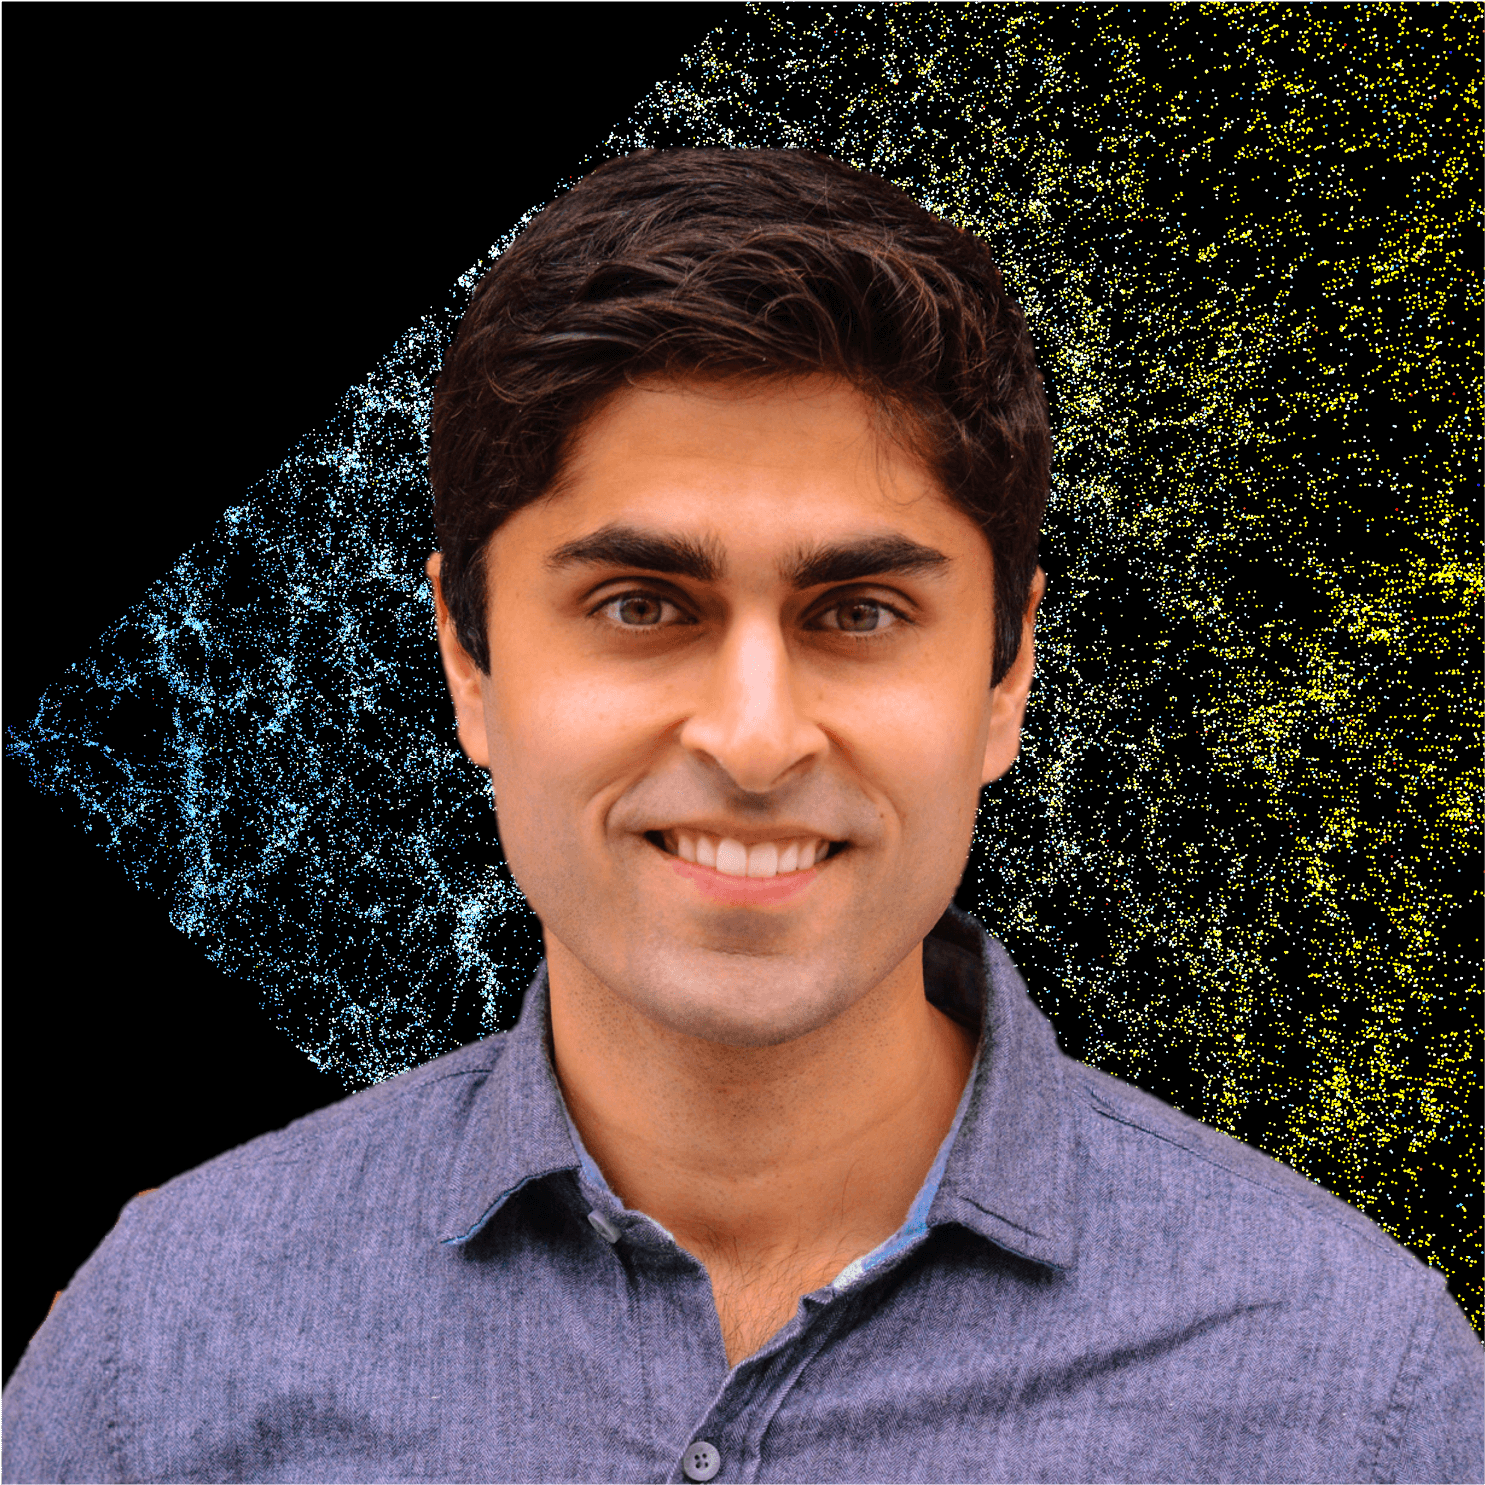
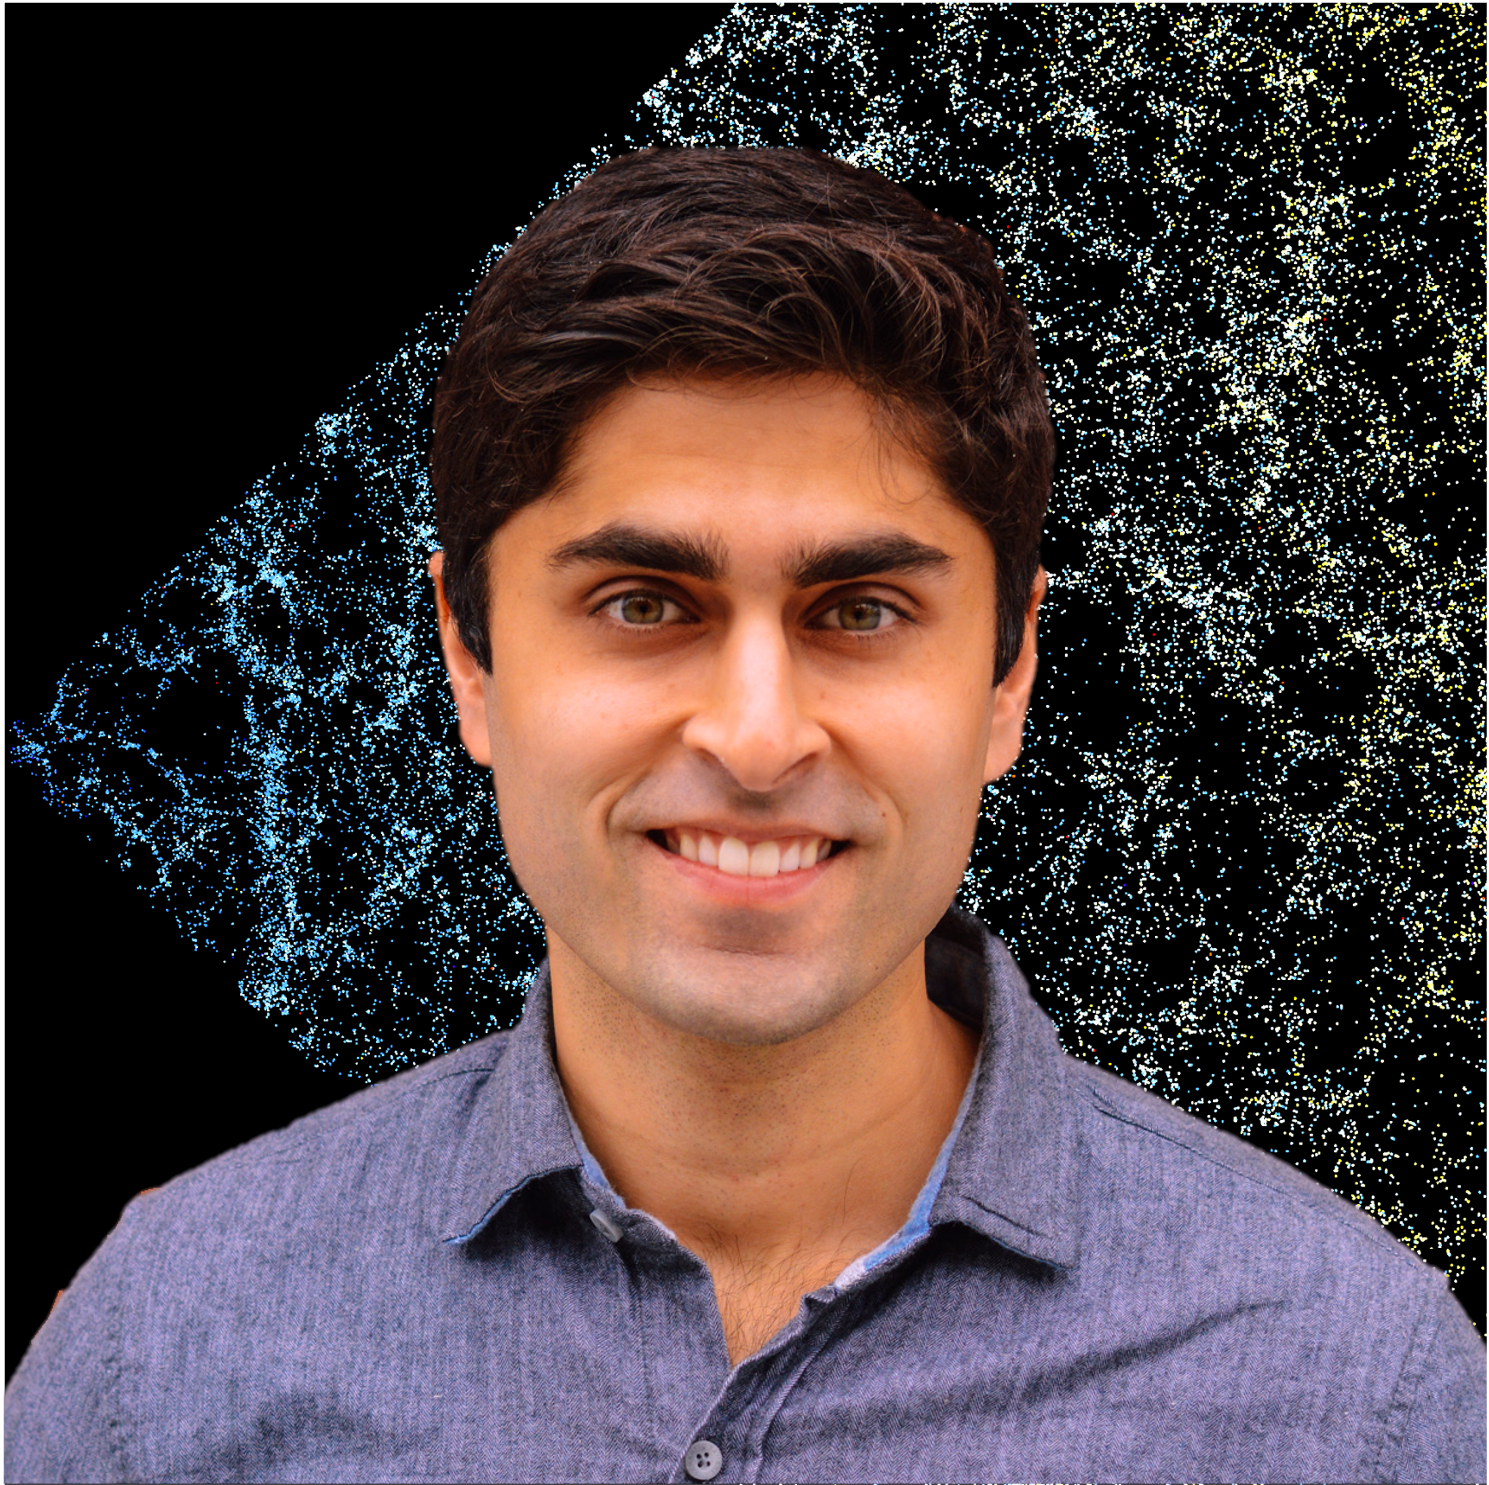
updates

diff --git a/team.html b/team.html
@@ -76,18 +76,18 @@
 </style>
 
 
-<canvas class="filter brightness-90" id="starCanvas"></canvas>
+<canvas class="filter brightness-95" id="starCanvas"></canvas>
 <main class="relative z-10">
   <main class="max-w-7xl mx-auto py-10 px-4">
     <section class="text-center mb-1">
-      <div style = "background-color: rgba(0, 0, 0, 0.5);">
+      <div style = "background-color: rgba(0, 0, 0, 0.25);">
       <h1 class="text-5xl font-bold mb-1">Our Team</h1>
       <p class="text-xl font-bold text-white">Experts in combination drug discovery and development</p>
      <p class="text-xl text-white">*co-founders</p>
     </div>
     </section>
 
-<div class="overflow-y-auto justify-items-center grid gap-4 md:grid-cols-2 lg:grid-cols-4">
+<div class="overflow-y-auto justify-items-center grid gap-4 md:grid-cols-3 lg:grid-cols-5">
 
 <div class="max-w-sm bg-white/90 rounded-lg shadow-md overflow-hidden hover:shadow-lg transition-shadow duration-300">  <img src="img/atray.png" alt="Atray Dixit" class="w-full object-contain">  <div class="p-4">    <h3 class="text-xl text-slate-700 font-semibold mb-2">Atray Dixit      <a href="https://www.linkedin.com/in/atray-dixit/"><i class="fa fa-linkedin-square float-right hover:scale-110 hover:shadow-lg transition-shadow duration-300" style="font-size:30px;color:#0a66c2"></i></a></h3>      <p class="text-md text-gray-700 mb-2">*CEO, Head of Data   
 
@@ -100,9 +100,11 @@
 <div class="max-w-sm bg-white/90 rounded-lg shadow-md overflow-hidden hover:shadow-lg transition-shadow duration-300">  <img src="img/bill.png" alt="Bill Grossman" class="w-full object-contain">  <div class="p-4">    <h3 class="text-xl text-slate-700 font-semibold mb-2">Bill Grossman      <a href="https://www.linkedin.com/in/william-grossman-md-phd-7958018/"><i class="fa fa-linkedin-square float-right hover:scale-110 hover:shadow-lg transition-shadow duration-300" style="font-size:30px;color:#0a66c2"></i></a></h3>      <p class="text-md text-gray-700 mb-2">*Head of R&D    <button class="text-blue-500 font-semibold px-1 hover:underline float-right" data-modal="modal3">my bio</button>  </p>  </div></div>
 
 
-<div class="max-w-sm bg-white/90 rounded-lg shadow-md overflow-hidden hover:shadow-lg transition-shadow duration-300">  <img src="img/andres.png" alt="Andrés Mañas Mañas" class="w-full object-contain">  <div class="p-4">    <h3 class="text-xl text-slate-700 font-semibold mb-2">Andrés Mañas Mañas     <a href="https://www.linkedin.com/in/andresmanas/"><i class="fa fa-linkedin-square float-right hover:scale-110 hover:shadow-lg transition-shadow duration-300" style="font-size:30px;color:#0a66c2"></i></a></h3>      <p class="text-md text-gray-700 mb-2">AI & Data Engineer     <button class="text-blue-500 font-semibold px-1 hover:underline float-right" data-modal="modal4">my bio</button>  </p>  </div></div>
+<div class="max-w-sm bg-white/90 rounded-lg shadow-md overflow-hidden hover:shadow-lg transition-shadow duration-300">  <img src="img/andres.png" alt="Andrés Mañas Mañas" class="w-full object-contain">  <div class="p-4">    <h3 class="text-xl text-slate-700 font-semibold mb-2">Andrés Mañas<a href="https://www.linkedin.com/in/andresmanas/"><i class="fa fa-linkedin-square float-right hover:scale-110 hover:shadow-lg transition-shadow duration-300" style="font-size:30px;color:#0a66c2"></i></a></h3>      <p class="text-md text-gray-700 mb-2">AI & Data Engineer     <button class="text-blue-500 font-semibold px-1 hover:underline float-right" data-modal="modal4">my bio</button>  </p>  </div></div>
 
-<!-- <div class="max-w-sm bg-white/90 rounded-lg shadow-md overflow-hidden hover:shadow-lg transition-shadow duration-300">  <img src="img/andres.png" alt="Andrés Mañas" class="w-full object-contain">  <div class="p-4">    <h3 class="text-xl text-slate-700 font-semibold mb-2">Madinah Najib      <a href="https://www.linkedin.com/in/andresmanas/"><i class="fa fa-linkedin-square float-right hover:scale-110 hover:shadow-lg transition-shadow duration-300" style="font-size:30px;color:#0a66c2"></i></a></h3>      <p class="text-md text-gray-700 mb-2">Senior Research Associate   </p>  </div></div> -->
+
+<div class="max-w-sm bg-white/90 rounded-lg shadow-md overflow-hidden hover:shadow-lg transition-shadow duration-300">  <img src="img/madinah.png" alt="Andrés Mañas Mañas" class="w-full object-contain">  <div class="p-4">    <h3 class="text-xl text-slate-700 font-semibold mb-2">Madinah Najib     <a href="https://www.linkedin.com/in/madinah-n-030724146/"><i class="fa fa-linkedin-square float-right hover:scale-110 hover:shadow-lg transition-shadow duration-300" style="font-size:30px;color:#0a66c2"></i></a></h3>      <p class="text-md text-gray-700 mb-2">Senior RA     <button class="text-blue-500 font-semibold px-1 hover:underline float-right" data-modal="modal5">my bio</button>  </p>  </div></div>
+
 
     </div>
 
@@ -160,6 +162,23 @@ He has also worked on recommendation systems, digital fraud detection, and large
   <p class="text-md text-justify text-slate-700 mb-2">Andrés completed an MSc in Artificial Intelligence after several years working alongside data scientists, drawn by their expertise. His academic background includes a BSc in Mathematics from the University of Almería, but it is the blend of mathematics, machine learning, and large-scale data that fuels his professional growth.</p>
   <p class="text-xl text-left text-slate-700 font-semibold mb-2">My role</p>
   <p class="text-md text-justify text-slate-700 mb-2">Andrés orchestrates Oncko's data pipelines, machine learning, and IT solutions.</p>
+  </div>
+</div>
+
+
+<!-- Modal 5 -->
+<div id="modal5" class="modal">
+  <div class="modal-content rounded-lg bg-white/95">
+    <span class="close" data-modal="modal5">&times;</span>
+    <p class="text-xl text-left text-slate-700 font-semibold mb-2">Background</p>
+    <p class="text-md text-justify text-slate-700 mb-2">Madinah was a research associate at Aperture Therapeutics, developing in vitro functional and biochemical screens evaluating candidate oligonucleotide therapies for neurodegenerative diseases. She previously held roles at leading biopharma companies, including Singular Genomics, Becton Dickinson, and Takeda Pharmaceuticals.<br><br>I produced majority of the data used to advance two novel oligonucleotide therapeutic programs into preclinical rodent studies.
+</p>
+  <p class="text-xl text-left text-slate-700 font-semibold mb-2">Education</p>
+  <p class="text-md text-justify text-slate-700 mb-2">Madinah has a B.S. in Pharmacological Chemistry from University of California, San Diego.
+</p>
+  <p class="text-xl text-left text-slate-700 font-semibold mb-2">My role</p>
+  <p class="text-md text-justify text-slate-700 mb-2">My role focuses on optimizing and executing pooled, combinatorial, perturbation screens as part of target identification and validation efforts.
+</p>
   </div>
 </div>
 

diff --git a/index.html b/index.html
@@ -74,7 +74,7 @@
 </style>
 
 
-<canvas class="filter brightness-90" id="starCanvas"></canvas>
+<canvas class="filter brightness-95" id="starCanvas"></canvas>
 
 
 <div class="overflow-y-auto justify-items-center grid gap-1 md:grid-cols-1 lg:grid-cols-1 m-2">
@@ -85,7 +85,7 @@
 
   
 <div class="text-xl w-3/4 text-center">
-  <div style = "background-color: rgba(0, 0, 0, 0.5);">
+  <div style = "background-color: rgba(0, 0, 0, 0.25);">
 
     <h2>There are far more potential drug combinations than stars in our galaxy (100 billion).</h2><br><h2>We explore this vast space to discover the best therapies for cancer patients.</h2>
   </div>

diff --git a/contact.html b/contact.html
@@ -73,7 +73,7 @@
 </style>
 
 
-<canvas class="filter brightness-90" id="starCanvas"></canvas>
+<canvas class="filter brightness-95" id="starCanvas"></canvas>
   <div class="content">
     <div style = "background-color: rgba(0, 0, 0, 0.5);" class="font-semibold">
   <h1><a style = "color: rgba(0, 100, 255, 1);" href= "mailto:info@oncko.com">info@oncko.com</a></h1>

diff --git a/about.html b/about.html
@@ -73,7 +73,7 @@
 </style>
 
 
-<canvas class="filter brightness-90" id="starCanvas"></canvas>
+<canvas class="filter brightness-95" id="starCanvas"></canvas>
   <div class="content">
     <div style = "background-color: rgba(0, 0, 0, 0.5);" class="font-semibold">
   <h1>Stay tuned...</h1>

diff --git a/publications.html b/publications.html
@@ -73,7 +73,7 @@
 </style>
 
 
-<canvas class="filter brightness-90" id="starCanvas"></canvas>
+<canvas class="filter brightness-95" id="starCanvas"></canvas>
 <main class="relative z-10">
   <main class="max-w-7xl mx-auto py-10 px-4">
     <section class="text-center mb-1">
